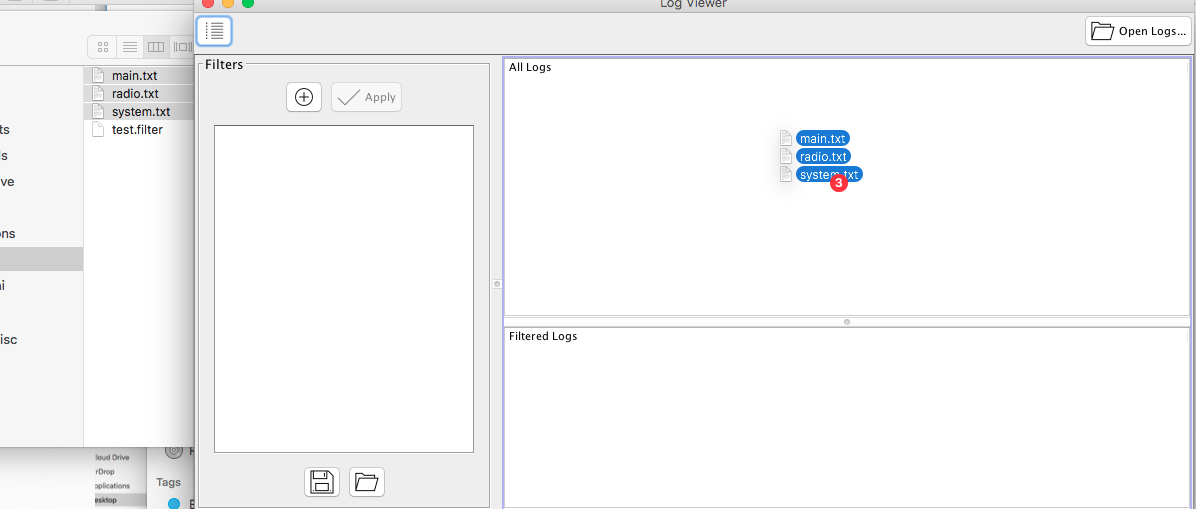
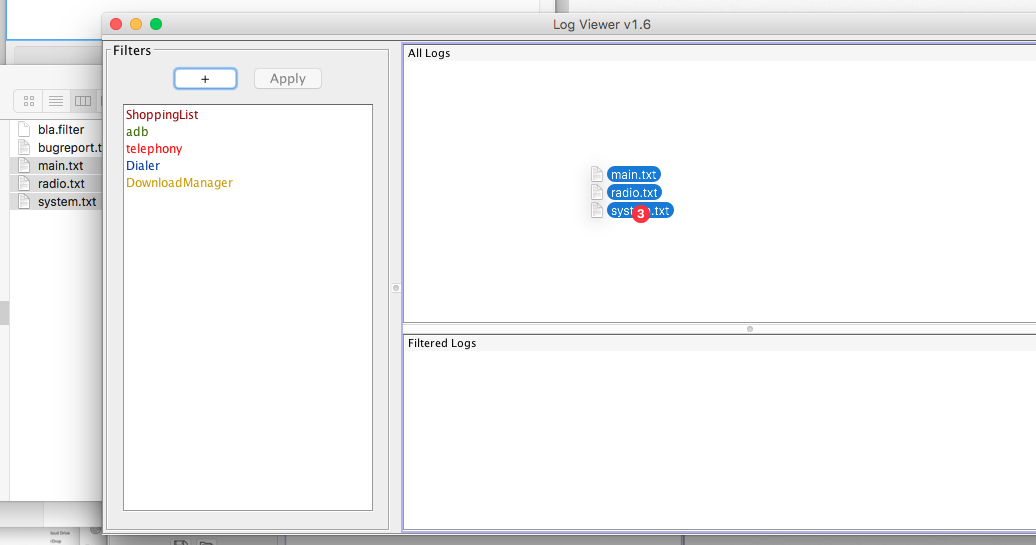
Changes for 1.6 release

Changed region(s): [[0.0, 0.0, 1.0, 1.0], [0.556, 0.2358, 0.7413, 0.4126], [0.0, 0.6483, 0.0309, 0.6778]]

diff --git a/overview.md b/overview.md
@@ -6,30 +6,23 @@ layout: default
 ## Basic functions
 ![Log Viewer](images/MainWindow.png)
 ### 1 - Menu
-Open options menu:
-* Settings (Custom user preferences)
-* Open new window (Useful when you need to compare different set of logs)
+* **File**
+  - Here you can access and change user preferences or open a new Log Viewer window (Very useful when you need to compare 2 or more set of logs)
+* **Logs**
+  - Here is one of the places you can open the logs (You can also simply drag and drop the log files inside the Log Viewer Window)
+* **Filter**
+  - This is where you can open or save your filters (This is very useful since you won't have to define all filters over and over again every time you use Log Viewer)
+* **Help**
+  - Here you can find a link to this page and an 'About' dialog
 
-### 2 - Open Logs
-Open one or more log files to be displayed on the 'Log View' panel. You can also just drag the log files from the file system and drop them on the 'Log View' panel.
+### 2 - Logs location
+When you open a set of logs to be analyzed using Log Viewer, often times it is very useful to compare different logs (using multiple Log Viewer windows), for example to compare 'failure' and 'success' logs. This allows you to differentiate each of these Windows by showing the location of the logs that are being analyzed on each window.
 
-### 3 - All Logs
+### 3 - Filters list
+This is where all the created filters will be displayed. (Use '+' button to create a new one, and 'apply' to apply all the selected filters to the set of logs. Also, you can drag and drop flters to re-order them, and delete by using the delete key on the selected filters)
+
+### 4 - All Logs
 This is where your logs will be displayed, merged and in a chronological order
 
-### 4 - Filtered Logs
+### 5 - Filtered Logs
 When one or more log filters are applied, this is where the filtered logs will be presented
-
-### 5 - New Filter
-Create a new filter. It can be as simple as a single word or as comples as you want using regex.
-
-### 6 - Apply filters
-Apply all selected filters (on the filters list) to the opened set of logs
-
-### 7 - Filters list
-This is where all the created filters will be displayed
-
-### 8 - Save filters
-You can save your filters o disk so it is easily accessible in the future. Without having to create them all over again every time. (Default folders for filters is used as the starting point location of the file chooser)
-
-### 9 - Open filters
-Open a previously saved list of filters. (Default folders for filters is used as the starting point location of the file chooser)

diff --git a/opening-logs.md b/opening-logs.md
@@ -5,8 +5,8 @@ layout: default
 # Opening Logs
 To open a new set of logs, you have 2 options:
 
-## Open logs dialog
-Click on the 'Open Logs...' button
+## Open logs menu
+Choose 'Logs > Open Logs' from the toolbar menu
 
 ![Open Button](images/OpenLogs.png)
 
